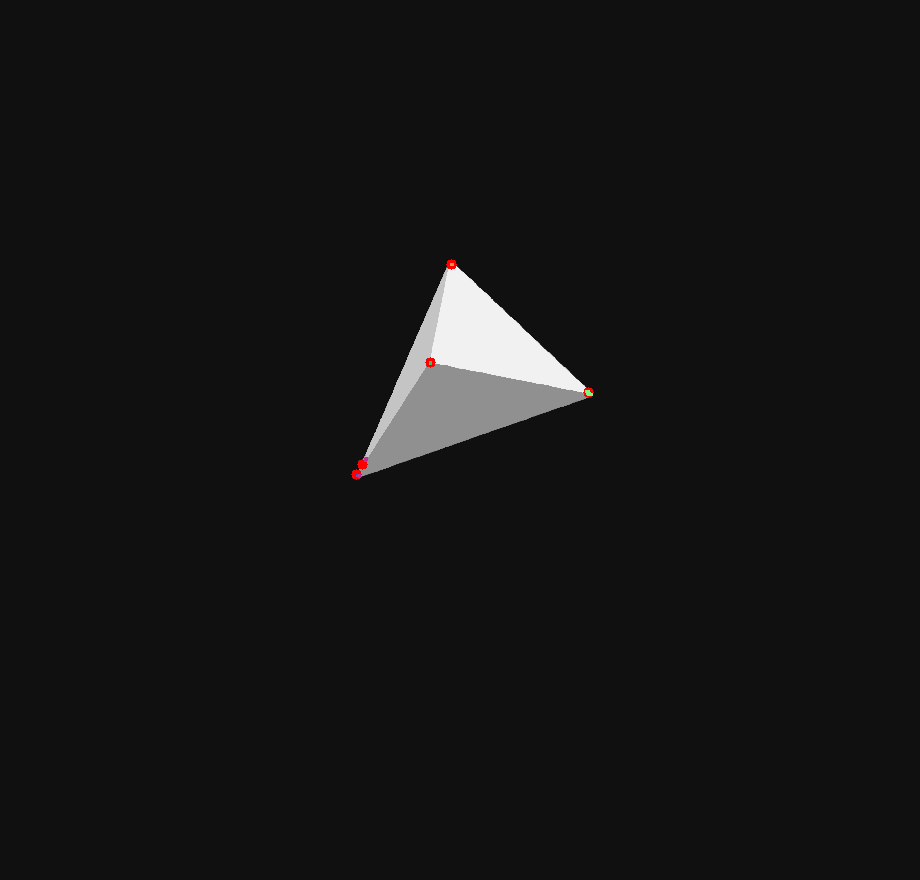
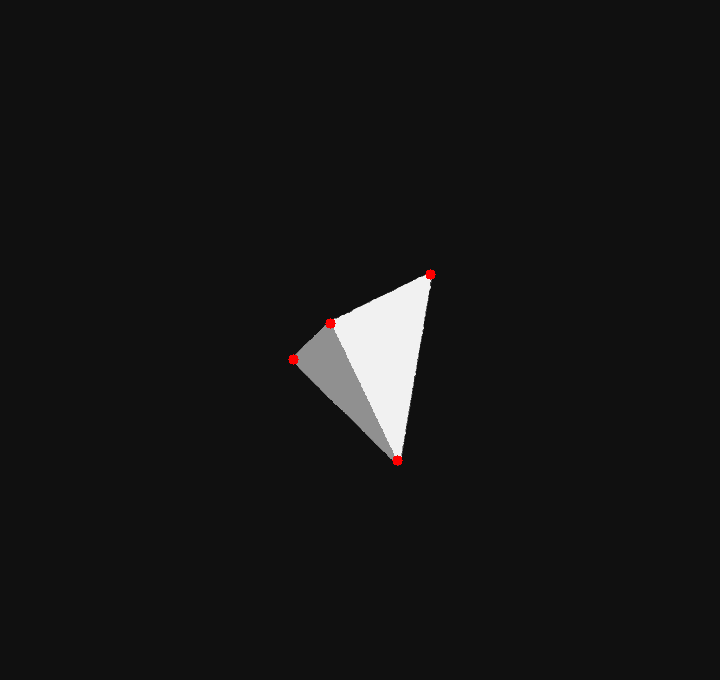
Vertice Detection Robustness
Improved vertex detection by working at the face level, then aggregating globally

Changed region(s): [[0.3667, 0.2779, 0.6417, 0.6794]]

diff --git a/SameDiff.py b/SameDiff.py
@@ -17,7 +17,6 @@ def rotMatrix(a, b, c):
          [-sin(b), cos(b) * sin(c), cos(b) * cos(c)]]
     return M
 
-
 def normalize(a):
     a = np.array(a)
     n = 0
@@ -25,7 +24,6 @@ def normalize(a):
         n += x ** 2
     N = np.sqrt(n)
     return a / N
-
 
 def orientation(right, up, forward):
     right = normalize(right)
@@ -37,18 +35,19 @@ def orientation(right, up, forward):
          [right[2], up[2], forward[2]]]
     return M
 
-
 def dist_2d(A, B):
     AB = [B[0] - A[0], B[1] - A[1]]
     return round(np.sqrt(AB[0] ** 2 + AB[1] ** 2), 8)
 
-
+def same_2d(A, B):
+    if A[0]==B[0] and A[1] == B[1]:
+        return True
+    return False
 # Weighted Least Squares for 2D points centroids
 def WLSQ(points):
     img = np.zeros((1000, 1000, 3), np.uint8)
 
     points = np.array(points)
-    print("Calculating weighted least squares")
 
     for V in points:
         cv2.circle(img, (V[1], V[0]), 3, (0, 0, 255), -1)
@@ -178,7 +177,6 @@ class Robot:
         # find centroid
         for c in contours:
             M = cv2.moments(c)
-
             # calculate x,y coordinate of center
             cX = int(M["m10"] / M["m00"])
             cY = int(M["m01"] / M["m00"])
@@ -276,21 +274,70 @@ class Robot:
         # ret, thresh = cv2.threshold(self.cam.view, 127, 255, 0)
         # self.cam.view = cv2.Canny(self.cam.view, 50, 255)
         # self.cam.view = cv2.dilate(self.cam.view, kernel=np.ones((3,3), np.float32))
-        self.cam.view = cv2.medianBlur(self.cam.view, 7)
+
+        #self.cam.view = cv2.medianBlur(self.cam.view, 7)
+
+        if not self.enhancedView:
+            print("(View needs to be enhanced)")
+            self.enhanceView()
 
         img = cv2.cvtColor(self.cam.view, cv2.COLOR_GRAY2RGB)
-        verts = np.zeros_like(self.cam.view)
+        faces = self.findFaces()
+        vertices = []
+        #find vertices on the face level
+        for i in range(0, len(faces)):
+            print("Determining vertices in face " + str(i))
+            face = faces[i]
+            verts = self.detectCorners(face)
+            # now process results from harris, find most likely vertices
+            clusters = self.getClusters(verts)
+            newVerts = self.calcVertices(clusters)
+            vertices.extend(newVerts)
+        # now do vertices globally to reduce redundancy
+        clusters = self.getClusters_global(vertices)
+        vertices = self.calcVertices(clusters)
+
+        #filter redundant vertices
+        print("Filtering redundant vertices")
+        fVertices = [] #vertices to filter out
+        N = len(vertices)
+        while vertices:
+            V1 = vertices.pop(0)
+            fVertices.append(V1)
+            for j in range(0, len(vertices)):
+                V2 = np.array(vertices[j])
+                if dist_2d(V1, V2) < 25:
+                    vertices.pop(j)
+                    break
+            # didnt find any problems, move to next
+
+        print("Removed " + str(N - len(fVertices)) + " vertices")
+
+        for V in fVertices:
+            cv2.circle(img, (V[1], V[0]), 5, (0, 0, 255), -1)
+
+        self.showImg(img)
+        # contours, hierarchy = cv2.findContours(thresh, cv2.RETR_TREE, cv2.CHAIN_APPROX_SIMPLE)
+        # self.cam.view = cv2.drawContours(self.cam.view, contours, -1, (0, 255, 0), 3)
+        cv2.imwrite("views/edges.png", img)
+
+
+    #  Returns list 2D coords that it thinks are likely to be corners
+    def detectCorners(self, face):
+        verts = np.zeros_like(face)
+
+        img = cv2.cvtColor(face, cv2.COLOR_GRAY2RGB)
 
         # do harris corner detection at multiple settings, then aggregate results
-        dst = cv2.cornerHarris(self.cam.view, 2, 5, 0.02)
+        dst = cv2.cornerHarris(face, 2, 5, 0.02)
         dst = cv2.dilate(dst, None)
         verts[dst > 0.01 * dst.max()] = 50
 
-        dst = cv2.cornerHarris(self.cam.view, 2, 5, 0.03)
+        dst = cv2.cornerHarris(face, 2, 5, 0.03)
         dst = cv2.dilate(dst, None)
         verts[dst > 0.01 * dst.max()] += 50
 
-        dst = cv2.cornerHarris(self.cam.view, 2, 5, 0.04)
+        dst = cv2.cornerHarris(face, 2, 5, 0.04)
         dst = cv2.dilate(dst, None)
         verts[dst > 0.01 * dst.max()] += 50
 
@@ -304,24 +351,8 @@ class Robot:
 
         verts[verts >= 150] = 255
         verts[verts != 255] = 0
-
-        # now process results from harris, find most likely vertices
-        clusters = self.getClusters(verts)
-        vertices = self.calcVertices(clusters)
-
-        for V in vertices:
-            cv2.circle(img, (V[1], V[0]), 5, (0, 0, 255), -1)
-
-        CC = 75
-        for C in clusters:
-            for v in C:
-                img[v[0]:v[0] + 1, v[1]:v[1] + 1] = [CC, CC * 2, CC * 3]
-            CC += 25
-
-        self.showImg(img)
-        # contours, hierarchy = cv2.findContours(thresh, cv2.RETR_TREE, cv2.CHAIN_APPROX_SIMPLE)
-        # self.cam.view = cv2.drawContours(self.cam.view, contours, -1, (0, 255, 0), 3)
-        cv2.imwrite("views/edges.png", img)
+        print(" > Found " + str(len(verts)) + " potential corners")
+        return verts
 
     def getClusters(self, verts):
         pts = []
@@ -335,7 +366,7 @@ class Robot:
                     pts.append([x, y])
 
         clusters = []  # init
-        print("Clustering " + str(len(pts)) + " points")
+        print(" > Clustering " + str(len(pts)) + " points")
         while pts:
             pt = pts.pop(0)
 
@@ -356,39 +387,51 @@ class Robot:
             # If we made it this far, then there was no cluster match
             clusters.append([pt])  # pt starts its own cluster
 
-        print("pruning clusters...")
+        print(" > pruning clusters with too few members...")
         for i in range(0, len(clusters)):
             if len(clusters[i]) <= 5:
                 clusters.pop(i)
 
-        print("Found " + str(len(clusters)) + " clusters")
+        print(" > Found " + str(len(clusters)) + " clusters")
+
+        return np.array(clusters)
+
+    def getClusters_global(self, verts):
+        pts = verts
+        maxDist = 25
+        clusters = []  # init
+        print("Globally aggregating vertices from all faces")
+        while pts:
+            pt = pts.pop(0)
+
+            # check clusters first, see if it belongs in any cluster
+            next = False
+            for C in clusters:
+                for cp in C:
+                    if dist_2d(pt, cp) <= maxDist:
+                        C.append(pt)
+                        next = True
+                        break;
+                if next:
+                    break
+            # if we added to  cluster, dont do anything more with this pt
+            if next:
+                continue
+
+            # If we made it this far, then there was no cluster match
+            clusters.append([pt])  # pt starts its own cluster
 
         return np.array(clusters)
 
     def calcVertices(self, clusters):
         vertices = []
-        for C in clusters:
+        for i in range(0,len(clusters)):
+            C = clusters[i]
+            print("   > Calculating weighted least squares centroid for cluster " + str(i+1) + "/" + str(len(clusters)))
             wlsq = WLSQ(C)
-
             vertices.append(wlsq)
 
         return vertices
-
-    # erodes and dilates n times
-    def refineView(self, n):
-        k = np.ones((3, 3), np.float32)
-        for i in range(0, n):
-            self.cam.view = cv2.erode(self.cam.view, kernel=k)
-            self.cam.view = cv2.dilate(self.cam.view, kernel=k)
-
-        self.threshold(10, 255)
-
-    def threshold(self, min, max):
-        ret, self.cam.view = cv2.threshold(self.cam.view, min, max, 0)
-
-    # shrinks image, less computations needed
-    def getROI(self):
-        self.cam.view = self.cam.view[200:1080 - 200, 600: 1920 - 600]
 
     def findFaces(self):
         print("Localizing faces in current view")
@@ -396,16 +439,12 @@ class Robot:
             print("(View needs to be enhanced)")
             self.enhanceView()
 
+
         # Get histogram of colours
         print(" > Collecting colour histogram (this may take a few seconds)")
         bucketSize = 25
-        colors = np.zeros((10))
-        for i in range(0, bucketSize):
-            for P in self.cam.view:
-                for p in P:
-                    if i * bucketSize <= p < (i + 1) * bucketSize:
-                        colors[i] += 1
-            print("    > " + str(round((i + 1) / 25, 2) * 100) + "% complete")
+        colors = cv2.calcHist([self.cam.view], [0], None, [10], [0, 256])
+
         colors[0] = 0  # we don't care about black background
         faceColors = []
         for i in range(0, 10):
@@ -424,13 +463,54 @@ class Robot:
                 for y in range(0, len(self.cam.view[0])):
                     if fc[0] <= self.cam.view[x, y] < fc[1]:
                         face[x, y] = 255
-            face = cv2.medianBlur(face, 3)
+            face = cv2.medianBlur(face, 5)
             faces.append(face)
 
-        for face in faces:
-            self.showImg(face)
+
         print("Faces localized, masks generated")
         return faces
+
+    def removeColinearVertices(self, verts, face):
+        i = 0
+        self.showImg(face)
+        line = np.zeros_like(face)
+        for V in verts:
+            line[V[0]:V[0]+3, V[1]:V[1]+3] = 255
+        self.showImg(line)
+        while verts and i < len(verts):
+            V1 = verts[i]
+            for j in range(1, len(verts)):
+                V2 = verts[j]
+                line = np.zeros_like(face)
+                line = cv2.line(line, (V1[1], V1[0]), (V2[1], V2[0]), 255, 3)
+                for k in range(j+1, len(verts)):
+                    V3 = verts[k]
+                    line[V3[0]:V3[0]+3, V3[1]:V3[1]+3] = 150
+                    self.showImg(line)
+                    if not same_2d(V1, V3) and not same_2d(V2, V3):
+                        if line[V3[0], V3[1]] == 255:
+                            verts.pop(k)
+                            break
+                break
+            i = i+1
+
+        return verts
+    # erodes and dilates n times
+    def refineView(self, n):
+        k = np.ones((3, 3), np.float32)
+        for i in range(0, n):
+            self.cam.view = cv2.erode(self.cam.view, kernel=k)
+            self.cam.view = cv2.dilate(self.cam.view, kernel=k)
+
+        self.threshold(10, 255)
+
+    def threshold(self, min, max):
+        ret, self.cam.view = cv2.threshold(self.cam.view, min, max, 0)
+
+    # shrinks image, less computations needed
+    def getROI(self):
+        self.cam.view = self.cam.view[200:1080 - 200, 600: 1920 - 600]
+
 
     # interface functions ==========================================
 
@@ -536,21 +616,18 @@ def TestCenterObject(robot):
     print(">>>> ROBOT Processing front view")
     robot.set_radius(1.5)
 
-
 def TestVerticeCount(robot):
     print(">>>> Testing vertice counting")
     NUM_VERTS = 4
-    robot.loadImg("views/robot1_1_view3.png")
+    robot.loadImg("views/robot0_1_view3.png")
     # robot.processCameraView()
     robot.enhanceView()
     robot.findVertices()
 
-
 def TestFindFaces(robot):
     print(">>>> Testing Find Faces")
-    robot.loadImg("views/robot1_1_view3.png")
+    robot.loadImg("views/robot0_1_view3.png")
     robot.findFaces()
-
 
 if __name__ == "__main__":
     if len(sys.argv) != 2:
@@ -567,8 +644,8 @@ if __name__ == "__main__":
     robot2 = Robot(DL, 1, 1, debug=False)
 
     TestCenterObject(robot2)
-    # TestVerticeCount(robot2)
-    TestFindFaces(robot2)
+    TestVerticeCount(robot2)
+    #TestFindFaces(robot2)
 
     # DONE, software will ding when done processing
     print("======================================================")
